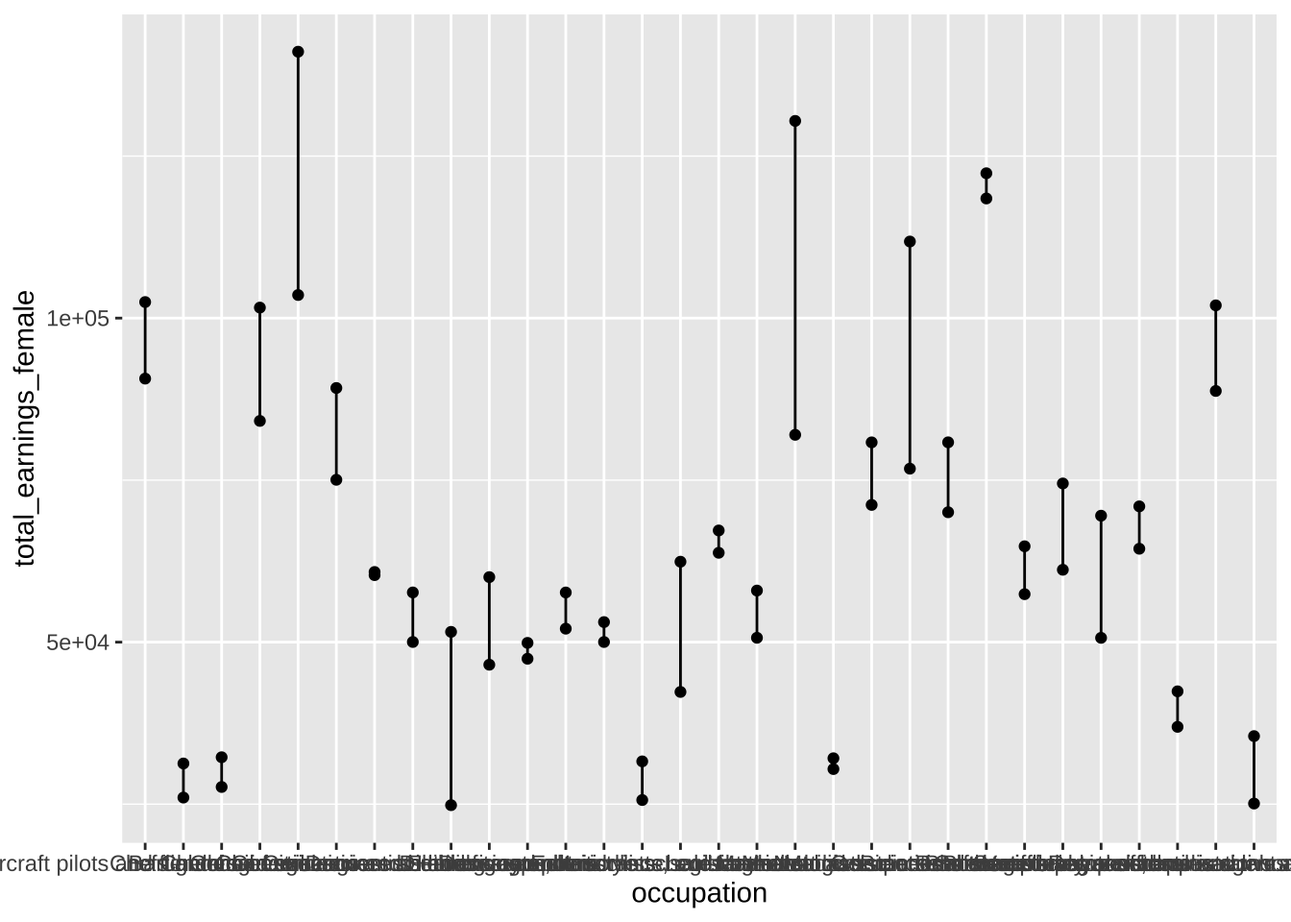
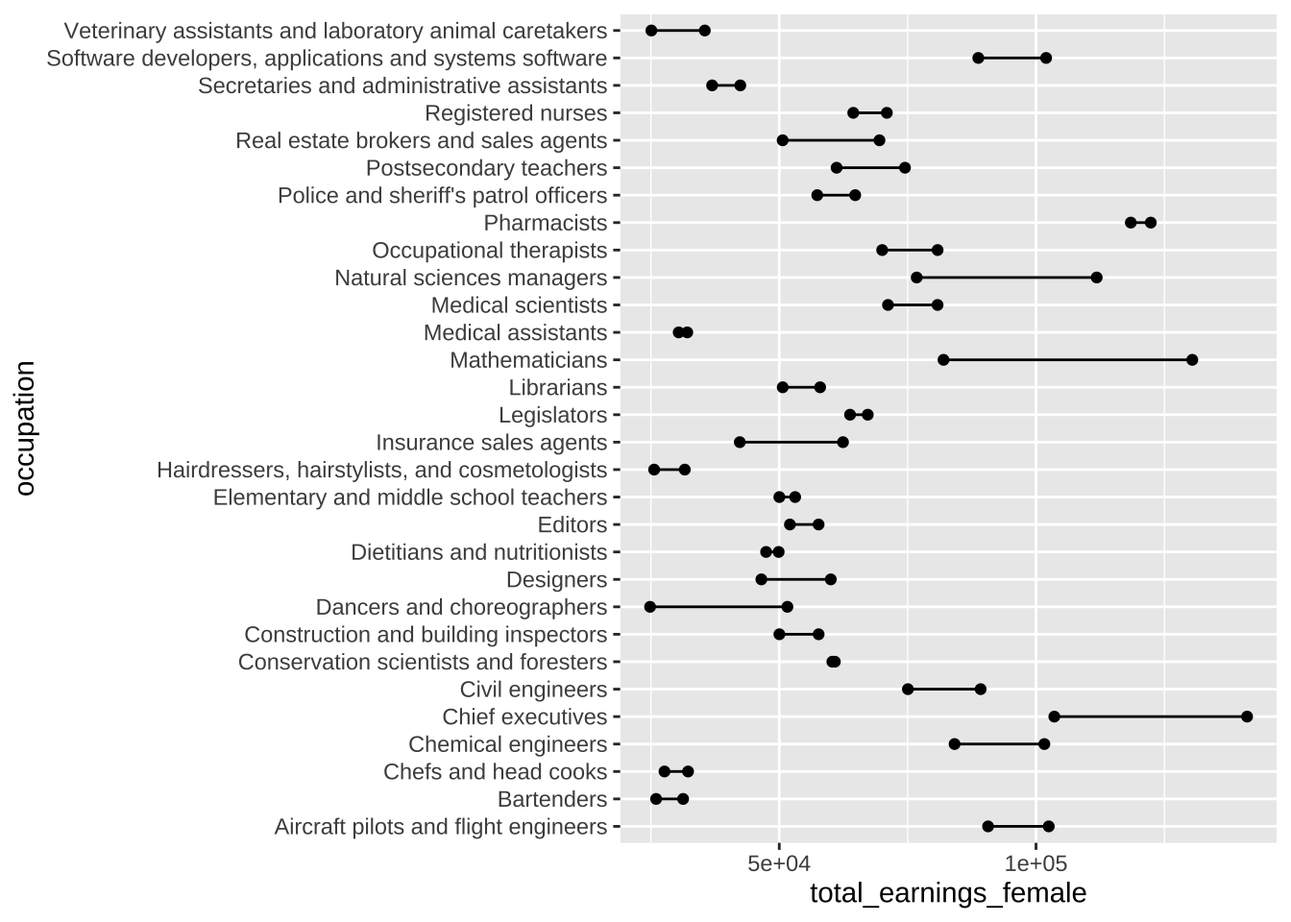
simplified building dumbbell plot

diff --git a/index.html b/index.html
@@ -283,7 +283,7 @@ Warning: Large data file!
 </div>
 <div id="tabset-2-2" class="tab-pane" role="tabpanel" aria-labelledby="tabset-2-2-tab">
 <p>In honor of <a href="https://womenshistorymonth.gov/">Women’s History Month</a> we’ll be using the <a href="https://github.com/rfordatascience/tidytuesday">#tidytuesday</a> <a href="https://github.com/rfordatascience/tidytuesday/tree/master/data/2019/2019-03-05">Women in the Workforce</a> data set (posted on March 5, 2019) to explore <strong>differences in salaries between males and females across occupations</strong>.</p>
-<p>The original <a href="https://raw.githubusercontent.com/rfordatascience/tidytuesday/master/data/2019/2019-03-05/jobs_gender.csv">jobs_gender.csv</a> data file (as posted on the tidytuesday GitHub repo) contains 12 variables and &gt;2,000 observations – each row represents a different occupation and associated wage and employment statistics for the years 2013 - 2016. Cleaning involves removing occupations with missing salary data and calculating some additional values (average salary for males and females by occupation, the percentage of males for each occupation type, difference in salary between males and females by occupation). Two cleaned data sets are available: <a href="https://github.com/UCSB-MEDS/ggplot2-workflow/blob/main/clean-data/all_jobs.rds"><code>all_jobs.rds</code></a> (contains all occupations with wage data from the original data set, across all available years) and <a href="https://github.com/UCSB-MEDS/ggplot2-workflow/blob/main/clean-data/select_jobs.rds"><code>select_jobs.rds</code></a> (contains 10 occupations from each of the following categories: occupations that are 75%+ women, 45-55% women, and 75%+ men, for the year 2016 only), which we’ll use for plotting below. Find the <a href="https://github.com/UCSB-MEDS/ggplot2-workflow/blob/main/data-cleaning/salaries-cleaning.R">cleaning script here</a>.</p>
+<p>The original <a href="https://raw.githubusercontent.com/rfordatascience/tidytuesday/master/data/2019/2019-03-05/jobs_gender.csv">jobs_gender.csv</a> data file (as posted on the tidytuesday GitHub repo) contains 12 variables and &gt;2,000 observations – each row represents a different occupation and associated wage and employment statistics for the years 2013 - 2016. Cleaning involves removing occupations with missing salary data, calculating some additional values (average salary for males and females by occupation, the percentage of males for each occupation type, difference in salary between males and females by occupation), and re-leveling the <code>perc_group_label</code> factor (which groups occupations by those that are 75% female, 45-55% female, and 75% male). Two cleaned data sets are available: <a href="https://github.com/UCSB-MEDS/ggplot2-workflow/blob/main/clean-data/all_jobs.rds"><code>all_jobs.rds</code></a> (contains all occupations with wage data from the original data set, across all available years) and <a href="https://github.com/UCSB-MEDS/ggplot2-workflow/blob/main/clean-data/select_jobs.rds"><code>select_jobs.rds</code></a> (contains 10 occupations from each of the following categories: occupations that are 75%+ women, 45-55% women, and 75%+ men, for the year 2016 only), which we’ll use for plotting below. <strong>NOTE:</strong> These categories, which are represented by the variable, <code>perc_group_label</code> (factor), have already been reordered during the cleaning stage. Find the <a href="https://github.com/UCSB-MEDS/ggplot2-workflow/blob/main/data-cleaning/salaries-cleaning.R">cleaning script here</a>.</p>
 <div class="callout-important callout callout-style-default callout-captioned">
 <div class="callout-header d-flex align-content-center">
 <div class="callout-icon-container">
@@ -509,11 +509,12 @@ Stacked area plots should be used with caution.
 <span id="cb8-14"><a href="#cb8-14" aria-hidden="true" tabindex="-1"></a>earnings_plot <span class="ot">&lt;-</span> <span class="fu">ggplot</span>(select_jobs) <span class="sc">+</span></span>
 <span id="cb8-15"><a href="#cb8-15" aria-hidden="true" tabindex="-1"></a>  </span>
 <span id="cb8-16"><a href="#cb8-16" aria-hidden="true" tabindex="-1"></a>  <span class="co"># create dumbbells ----</span></span>
-<span id="cb8-17"><a href="#cb8-17" aria-hidden="true" tabindex="-1"></a>  <span class="fu">geom_segment</span>(<span class="fu">aes</span>(<span class="at">x =</span> occupation, <span class="at">xend =</span> occupation, <span class="at">y =</span> total_earnings_female, <span class="at">yend =</span> total_earnings_male)) <span class="sc">+</span></span>
-<span id="cb8-18"><a href="#cb8-18" aria-hidden="true" tabindex="-1"></a>  <span class="fu">geom_point</span>(<span class="fu">aes</span>(<span class="at">x =</span> occupation, <span class="at">y =</span> total_earnings_male)) <span class="sc">+</span></span>
-<span id="cb8-19"><a href="#cb8-19" aria-hidden="true" tabindex="-1"></a>  <span class="fu">geom_point</span>(<span class="fu">aes</span>(<span class="at">x =</span> occupation, <span class="at">y =</span> total_earnings_female)) </span>
-<span id="cb8-20"><a href="#cb8-20" aria-hidden="true" tabindex="-1"></a></span>
-<span id="cb8-21"><a href="#cb8-21" aria-hidden="true" tabindex="-1"></a>earnings_plot</span></code><button title="Copy to Clipboard" class="code-copy-button"><i class="bi"></i></button></pre></div>
+<span id="cb8-17"><a href="#cb8-17" aria-hidden="true" tabindex="-1"></a>  <span class="fu">geom_segment</span>(<span class="fu">aes</span>(<span class="at">x =</span> total_earnings_female, <span class="at">xend =</span> total_earnings_male, </span>
+<span id="cb8-18"><a href="#cb8-18" aria-hidden="true" tabindex="-1"></a>                   <span class="at">y =</span> occupation, <span class="at">yend =</span> occupation)) <span class="sc">+</span></span>
+<span id="cb8-19"><a href="#cb8-19" aria-hidden="true" tabindex="-1"></a>  <span class="fu">geom_point</span>(<span class="fu">aes</span>(<span class="at">x =</span> total_earnings_female, <span class="at">y =</span> occupation)) <span class="sc">+</span></span>
+<span id="cb8-20"><a href="#cb8-20" aria-hidden="true" tabindex="-1"></a>  <span class="fu">geom_point</span>(<span class="fu">aes</span>(<span class="at">x =</span> total_earnings_male, <span class="at">y =</span> occupation)) </span>
+<span id="cb8-21"><a href="#cb8-21" aria-hidden="true" tabindex="-1"></a></span>
+<span id="cb8-22"><a href="#cb8-22" aria-hidden="true" tabindex="-1"></a>earnings_plot</span></code><button title="Copy to Clipboard" class="code-copy-button"><i class="bi"></i></button></pre></div>
 <div class="cell-output-display">
 <p><img src="index_files/figure-html/unnamed-chunk-8-1.png" class="img-fluid" width="672"></p>
 </div>
@@ -583,31 +584,32 @@ Stacked area plots should be used with caution.
 <span id="cb10-12"><a href="#cb10-12" aria-hidden="true" tabindex="-1"></a></span>
 <span id="cb10-13"><a href="#cb10-13" aria-hidden="true" tabindex="-1"></a><span class="co">#..............................plot..............................</span></span>
 <span id="cb10-14"><a href="#cb10-14" aria-hidden="true" tabindex="-1"></a>mko_ridges_plot <span class="ot">&lt;-</span> mko_clean <span class="sc">|&gt;</span> </span>
-<span id="cb10-15"><a href="#cb10-15" aria-hidden="true" tabindex="-1"></a>  <span class="fu">group_by</span>(month_name) <span class="sc">|&gt;</span> </span>
-<span id="cb10-16"><a href="#cb10-16" aria-hidden="true" tabindex="-1"></a>  </span>
-<span id="cb10-17"><a href="#cb10-17" aria-hidden="true" tabindex="-1"></a>  </span>
-<span id="cb10-18"><a href="#cb10-18" aria-hidden="true" tabindex="-1"></a>  <span class="co"># initialize ggplot ----</span></span>
-<span id="cb10-19"><a href="#cb10-19" aria-hidden="true" tabindex="-1"></a>  <span class="fu">ggplot</span>(<span class="fu">aes</span>(<span class="at">x =</span> Temp_bot, <span class="at">y =</span> month_name, <span class="at">fill =</span> <span class="fu">after_stat</span>(x))) <span class="sc">+</span></span>
-<span id="cb10-20"><a href="#cb10-20" aria-hidden="true" tabindex="-1"></a>  </span>
-<span id="cb10-21"><a href="#cb10-21" aria-hidden="true" tabindex="-1"></a>  <span class="co"># create ridgeline plot ----</span></span>
-<span id="cb10-22"><a href="#cb10-22" aria-hidden="true" tabindex="-1"></a>  ggridges<span class="sc">::</span><span class="fu">geom_density_ridges_gradient</span>(<span class="at">rel_min_height =</span> <span class="fl">0.01</span>, <span class="at">scale =</span> <span class="dv">3</span>) <span class="sc">+</span> <span class="co"># rel_min_height cuts trailing tails (0.01 suggested); scale sets extent of overlap</span></span>
-<span id="cb10-23"><a href="#cb10-23" aria-hidden="true" tabindex="-1"></a>  </span>
-<span id="cb10-24"><a href="#cb10-24" aria-hidden="true" tabindex="-1"></a>  <span class="co"># add vertical line at avg temp + annotation ----</span></span>
-<span id="cb10-25"><a href="#cb10-25" aria-hidden="true" tabindex="-1"></a>  <span class="fu">geom_vline</span>(<span class="at">xintercept =</span> mko_avg, <span class="at">linetype =</span> <span class="st">"dashed"</span>, <span class="at">color =</span> <span class="st">"black"</span>) <span class="sc">+</span></span>
-<span id="cb10-26"><a href="#cb10-26" aria-hidden="true" tabindex="-1"></a>  <span class="fu">annotate</span>(<span class="at">geom =</span> <span class="st">"segment"</span>, <span class="at">x =</span> <span class="dv">18</span>, <span class="at">y =</span> <span class="st">"April"</span>, <span class="at">xend =</span> mko_avg, <span class="at">yend =</span> <span class="st">"May"</span>,</span>
-<span id="cb10-27"><a href="#cb10-27" aria-hidden="true" tabindex="-1"></a>           <span class="at">arrow =</span> <span class="fu">arrow</span>(<span class="at">length =</span> <span class="fu">unit</span>(<span class="dv">3</span>, <span class="st">"mm"</span>))) <span class="sc">+</span> <span class="co"># this is mostly just a bunch of manual fiddling until the arrow is placed where I want it</span></span>
-<span id="cb10-28"><a href="#cb10-28" aria-hidden="true" tabindex="-1"></a>  <span class="fu">annotate</span>(<span class="at">geom =</span> <span class="st">"label"</span>, <span class="at">x =</span> <span class="dv">18</span>, <span class="at">y =</span> <span class="st">"April"</span>, <span class="at">label =</span> <span class="fu">paste0</span>(<span class="st">" Avg Temp = "</span>, mko_avg, <span class="st">"°C"</span>), <span class="at">hjust =</span> <span class="st">"left"</span>) <span class="sc">+</span> <span class="co"># same here</span></span>
-<span id="cb10-29"><a href="#cb10-29" aria-hidden="true" tabindex="-1"></a></span>
-<span id="cb10-30"><a href="#cb10-30" aria-hidden="true" tabindex="-1"></a>  <span class="co"># set x-axis breaks ----</span></span>
-<span id="cb10-31"><a href="#cb10-31" aria-hidden="true" tabindex="-1"></a>  <span class="fu">scale_x_continuous</span>(<span class="at">breaks =</span> <span class="fu">c</span>(<span class="dv">9</span>, <span class="dv">12</span>, <span class="dv">15</span>, <span class="dv">18</span>, <span class="dv">21</span>)) <span class="sc">+</span></span>
-<span id="cb10-32"><a href="#cb10-32" aria-hidden="true" tabindex="-1"></a>  </span>
-<span id="cb10-33"><a href="#cb10-33" aria-hidden="true" tabindex="-1"></a>  <span class="co"># arrange months in reverse chronological order ----</span></span>
-<span id="cb10-34"><a href="#cb10-34" aria-hidden="true" tabindex="-1"></a>  <span class="fu">scale_y_discrete</span>(<span class="at">limits =</span> <span class="fu">rev</span>(month.name)) <span class="sc">+</span> </span>
-<span id="cb10-35"><a href="#cb10-35" aria-hidden="true" tabindex="-1"></a>  </span>
-<span id="cb10-36"><a href="#cb10-36" aria-hidden="true" tabindex="-1"></a>  <span class="co"># fill color ----</span></span>
-<span id="cb10-37"><a href="#cb10-37" aria-hidden="true" tabindex="-1"></a>  <span class="fu">scale_fill_gradientn</span>(<span class="at">colors =</span> <span class="fu">c</span>(<span class="st">"#2C5374"</span>,<span class="st">"#778798"</span>, <span class="st">"#ADD8E6"</span>, <span class="st">"#EF8080"</span>, <span class="st">"#8B3A3A"</span>), <span class="at">name =</span> <span class="st">"Temp. (°C)"</span>) </span>
-<span id="cb10-38"><a href="#cb10-38" aria-hidden="true" tabindex="-1"></a></span>
-<span id="cb10-39"><a href="#cb10-39" aria-hidden="true" tabindex="-1"></a>mko_ridges_plot</span></code><button title="Copy to Clipboard" class="code-copy-button"><i class="bi"></i></button></pre></div>
+<span id="cb10-15"><a href="#cb10-15" aria-hidden="true" tabindex="-1"></a>  </span>
+<span id="cb10-16"><a href="#cb10-16" aria-hidden="true" tabindex="-1"></a>  <span class="co"># group by month ----</span></span>
+<span id="cb10-17"><a href="#cb10-17" aria-hidden="true" tabindex="-1"></a>  <span class="fu">group_by</span>(month_name) <span class="sc">|&gt;</span> </span>
+<span id="cb10-18"><a href="#cb10-18" aria-hidden="true" tabindex="-1"></a>  </span>
+<span id="cb10-19"><a href="#cb10-19" aria-hidden="true" tabindex="-1"></a>  <span class="co"># initialize ggplot ----</span></span>
+<span id="cb10-20"><a href="#cb10-20" aria-hidden="true" tabindex="-1"></a>  <span class="fu">ggplot</span>(<span class="fu">aes</span>(<span class="at">x =</span> Temp_bot, <span class="at">y =</span> month_name, <span class="at">fill =</span> <span class="fu">after_stat</span>(x))) <span class="sc">+</span></span>
+<span id="cb10-21"><a href="#cb10-21" aria-hidden="true" tabindex="-1"></a>  </span>
+<span id="cb10-22"><a href="#cb10-22" aria-hidden="true" tabindex="-1"></a>  <span class="co"># create ridgeline plot ----</span></span>
+<span id="cb10-23"><a href="#cb10-23" aria-hidden="true" tabindex="-1"></a>  ggridges<span class="sc">::</span><span class="fu">geom_density_ridges_gradient</span>(<span class="at">rel_min_height =</span> <span class="fl">0.01</span>, <span class="at">scale =</span> <span class="dv">3</span>) <span class="sc">+</span> <span class="co"># rel_min_height cuts trailing tails (0.01 suggested); scale sets extent of overlap</span></span>
+<span id="cb10-24"><a href="#cb10-24" aria-hidden="true" tabindex="-1"></a>  </span>
+<span id="cb10-25"><a href="#cb10-25" aria-hidden="true" tabindex="-1"></a>  <span class="co"># add vertical line at avg temp + annotation ----</span></span>
+<span id="cb10-26"><a href="#cb10-26" aria-hidden="true" tabindex="-1"></a>  <span class="fu">geom_vline</span>(<span class="at">xintercept =</span> mko_avg, <span class="at">linetype =</span> <span class="st">"dashed"</span>, <span class="at">color =</span> <span class="st">"black"</span>) <span class="sc">+</span></span>
+<span id="cb10-27"><a href="#cb10-27" aria-hidden="true" tabindex="-1"></a>  <span class="fu">annotate</span>(<span class="at">geom =</span> <span class="st">"segment"</span>, <span class="at">x =</span> <span class="dv">18</span>, <span class="at">y =</span> <span class="st">"April"</span>, <span class="at">xend =</span> mko_avg, <span class="at">yend =</span> <span class="st">"May"</span>,</span>
+<span id="cb10-28"><a href="#cb10-28" aria-hidden="true" tabindex="-1"></a>           <span class="at">arrow =</span> <span class="fu">arrow</span>(<span class="at">length =</span> <span class="fu">unit</span>(<span class="dv">3</span>, <span class="st">"mm"</span>))) <span class="sc">+</span> <span class="co"># this is mostly just a bunch of manual fiddling until the arrow is placed where I want it</span></span>
+<span id="cb10-29"><a href="#cb10-29" aria-hidden="true" tabindex="-1"></a>  <span class="fu">annotate</span>(<span class="at">geom =</span> <span class="st">"label"</span>, <span class="at">x =</span> <span class="dv">18</span>, <span class="at">y =</span> <span class="st">"April"</span>, <span class="at">label =</span> <span class="fu">paste0</span>(<span class="st">" Avg Temp = "</span>, mko_avg, <span class="st">"°C"</span>), <span class="at">hjust =</span> <span class="st">"left"</span>) <span class="sc">+</span> <span class="co"># same here</span></span>
+<span id="cb10-30"><a href="#cb10-30" aria-hidden="true" tabindex="-1"></a></span>
+<span id="cb10-31"><a href="#cb10-31" aria-hidden="true" tabindex="-1"></a>  <span class="co"># set x-axis breaks ----</span></span>
+<span id="cb10-32"><a href="#cb10-32" aria-hidden="true" tabindex="-1"></a>  <span class="fu">scale_x_continuous</span>(<span class="at">breaks =</span> <span class="fu">c</span>(<span class="dv">9</span>, <span class="dv">12</span>, <span class="dv">15</span>, <span class="dv">18</span>, <span class="dv">21</span>)) <span class="sc">+</span></span>
+<span id="cb10-33"><a href="#cb10-33" aria-hidden="true" tabindex="-1"></a>  </span>
+<span id="cb10-34"><a href="#cb10-34" aria-hidden="true" tabindex="-1"></a>  <span class="co"># arrange months in reverse chronological order ----</span></span>
+<span id="cb10-35"><a href="#cb10-35" aria-hidden="true" tabindex="-1"></a>  <span class="fu">scale_y_discrete</span>(<span class="at">limits =</span> <span class="fu">rev</span>(month.name)) <span class="sc">+</span> </span>
+<span id="cb10-36"><a href="#cb10-36" aria-hidden="true" tabindex="-1"></a>  </span>
+<span id="cb10-37"><a href="#cb10-37" aria-hidden="true" tabindex="-1"></a>  <span class="co"># fill color ----</span></span>
+<span id="cb10-38"><a href="#cb10-38" aria-hidden="true" tabindex="-1"></a>  <span class="fu">scale_fill_gradientn</span>(<span class="at">colors =</span> <span class="fu">c</span>(<span class="st">"#2C5374"</span>,<span class="st">"#778798"</span>, <span class="st">"#ADD8E6"</span>, <span class="st">"#EF8080"</span>, <span class="st">"#8B3A3A"</span>), <span class="at">name =</span> <span class="st">"Temp. (°C)"</span>) </span>
+<span id="cb10-39"><a href="#cb10-39" aria-hidden="true" tabindex="-1"></a></span>
+<span id="cb10-40"><a href="#cb10-40" aria-hidden="true" tabindex="-1"></a>mko_ridges_plot</span></code><button title="Copy to Clipboard" class="code-copy-button"><i class="bi"></i></button></pre></div>
 <div class="cell-output-display">
 <p><img src="index_files/figure-html/unnamed-chunk-10-1.png" class="img-fluid" width="672"></p>
 </div>
@@ -617,7 +619,6 @@ Stacked area plots should be used with caution.
 <p>We’ve successfully plotted our salary data for males and females by occupation, but our plot definitely needs some work. We’ll want to update the following so that our visualization is easier to interpret:</p>
 <ul>
 <li>color-code male vs.&nbsp;female points</li>
-<li>flip the axes so that we can more easily read the long occupation names</li>
 <li>reorder occupations (I’ll arrange them in descending order of average salary)</li>
 <li>facet wrap by our three groupings (<code>perc_group</code>: occupations that are 75%+ female, 45-55% female, and 75%+ male)</li>
 </ul>
@@ -638,16 +639,16 @@ Stacked area plots should be used with caution.
 <span id="cb11-14"><a href="#cb11-14" aria-hidden="true" tabindex="-1"></a>earnings_plot <span class="ot">&lt;-</span> <span class="fu">ggplot</span>(select_jobs) <span class="sc">+</span></span>
 <span id="cb11-15"><a href="#cb11-15" aria-hidden="true" tabindex="-1"></a>  </span>
 <span id="cb11-16"><a href="#cb11-16" aria-hidden="true" tabindex="-1"></a>  <span class="co"># create dumbbells ----</span></span>
-<span id="cb11-17"><a href="#cb11-17" aria-hidden="true" tabindex="-1"></a>  <span class="fu">geom_segment</span>(<span class="fu">aes</span>(<span class="at">x =</span> <span class="fu">reorder</span>(occupation, avg_salary), <span class="at">xend =</span> occupation, <span class="at">y =</span> total_earnings_female, <span class="at">yend =</span> total_earnings_male)) <span class="sc">+</span> <span class="co"># reorder occupation by avg_salary here</span></span>
-<span id="cb11-18"><a href="#cb11-18" aria-hidden="true" tabindex="-1"></a>  <span class="fu">geom_point</span>(<span class="fu">aes</span>(<span class="at">x =</span> occupation, <span class="at">y =</span> total_earnings_male), <span class="at">color =</span> <span class="st">"#CD93D8"</span>, <span class="at">size =</span> <span class="fl">2.5</span>) <span class="sc">+</span></span>
-<span id="cb11-19"><a href="#cb11-19" aria-hidden="true" tabindex="-1"></a>  <span class="fu">geom_point</span>(<span class="fu">aes</span>(<span class="at">x =</span> occupation, <span class="at">y =</span> total_earnings_female), <span class="at">color =</span> <span class="st">"#6A1E99"</span>, <span class="at">size =</span> <span class="fl">2.5</span>) <span class="sc">+</span></span>
-<span id="cb11-20"><a href="#cb11-20" aria-hidden="true" tabindex="-1"></a>  </span>
-<span id="cb11-21"><a href="#cb11-21" aria-hidden="true" tabindex="-1"></a>  <span class="co"># flip axes &amp; facet wrap by group ----</span></span>
-<span id="cb11-22"><a href="#cb11-22" aria-hidden="true" tabindex="-1"></a>  <span class="fu">coord_flip</span>() <span class="sc">+</span></span>
+<span id="cb11-17"><a href="#cb11-17" aria-hidden="true" tabindex="-1"></a>  <span class="fu">geom_segment</span>(<span class="fu">aes</span>(<span class="at">x =</span> total_earnings_female, <span class="at">xend =</span> total_earnings_male, </span>
+<span id="cb11-18"><a href="#cb11-18" aria-hidden="true" tabindex="-1"></a>                   <span class="at">y =</span> <span class="fu">reorder</span>(occupation, avg_salary), <span class="at">yend =</span> occupation)) <span class="sc">+</span> <span class="co"># reorder occupation by avg_salary here</span></span>
+<span id="cb11-19"><a href="#cb11-19" aria-hidden="true" tabindex="-1"></a>  <span class="fu">geom_point</span>(<span class="fu">aes</span>(<span class="at">x =</span> total_earnings_male, <span class="at">y =</span> occupation), <span class="at">color =</span> <span class="st">"#CD93D8"</span>, <span class="at">size =</span> <span class="fl">2.5</span>) <span class="sc">+</span></span>
+<span id="cb11-20"><a href="#cb11-20" aria-hidden="true" tabindex="-1"></a>  <span class="fu">geom_point</span>(<span class="fu">aes</span>(<span class="at">x =</span> total_earnings_female, <span class="at">y =</span> occupation), <span class="at">color =</span> <span class="st">"#6A1E99"</span>, <span class="at">size =</span> <span class="fl">2.5</span>) <span class="sc">+</span></span>
+<span id="cb11-21"><a href="#cb11-21" aria-hidden="true" tabindex="-1"></a>  </span>
+<span id="cb11-22"><a href="#cb11-22" aria-hidden="true" tabindex="-1"></a>  <span class="co"># facet wrap by group ----</span></span>
 <span id="cb11-23"><a href="#cb11-23" aria-hidden="true" tabindex="-1"></a>  <span class="fu">facet_wrap</span>(<span class="sc">~</span>perc_group_label, <span class="at">nrow =</span> <span class="dv">3</span>, <span class="at">scales =</span> <span class="st">"free_y"</span>) <span class="sc">+</span> <span class="co"># "free_y" plots only the axis labels that exist in each group</span></span>
 <span id="cb11-24"><a href="#cb11-24" aria-hidden="true" tabindex="-1"></a>  </span>
 <span id="cb11-25"><a href="#cb11-25" aria-hidden="true" tabindex="-1"></a>  <span class="co"># axis breaks &amp; $ labels ----</span></span>
-<span id="cb11-26"><a href="#cb11-26" aria-hidden="true" tabindex="-1"></a>  <span class="fu">scale_y_continuous</span>(<span class="at">labels =</span> scales<span class="sc">::</span><span class="fu">label_dollar</span>(<span class="at">scale =</span> <span class="fl">0.001</span>, <span class="at">suffix =</span> <span class="st">"k"</span>),</span>
+<span id="cb11-26"><a href="#cb11-26" aria-hidden="true" tabindex="-1"></a>  <span class="fu">scale_x_continuous</span>(<span class="at">labels =</span> scales<span class="sc">::</span><span class="fu">label_dollar</span>(<span class="at">scale =</span> <span class="fl">0.001</span>, <span class="at">suffix =</span> <span class="st">"k"</span>),</span>
 <span id="cb11-27"><a href="#cb11-27" aria-hidden="true" tabindex="-1"></a>                     <span class="at">breaks =</span> <span class="fu">c</span>(<span class="dv">25000</span>, <span class="dv">50000</span>, <span class="dv">75000</span>, <span class="dv">100000</span>, <span class="dv">125000</span>)) </span>
 <span id="cb11-28"><a href="#cb11-28" aria-hidden="true" tabindex="-1"></a></span>
 <span id="cb11-29"><a href="#cb11-29" aria-hidden="true" tabindex="-1"></a>earnings_plot</span></code><button title="Copy to Clipboard" class="code-copy-button"><i class="bi"></i></button></pre></div>
@@ -792,16 +793,16 @@ Stacked area plots should be used with caution.
 <span id="cb14-14"><a href="#cb14-14" aria-hidden="true" tabindex="-1"></a>earnings_plot <span class="ot">&lt;-</span> <span class="fu">ggplot</span>(select_jobs) <span class="sc">+</span></span>
 <span id="cb14-15"><a href="#cb14-15" aria-hidden="true" tabindex="-1"></a>  </span>
 <span id="cb14-16"><a href="#cb14-16" aria-hidden="true" tabindex="-1"></a>  <span class="co"># create dumbbells ----</span></span>
-<span id="cb14-17"><a href="#cb14-17" aria-hidden="true" tabindex="-1"></a>  <span class="fu">geom_segment</span>(<span class="fu">aes</span>(<span class="at">x =</span> <span class="fu">reorder</span>(occupation, avg_salary), <span class="at">xend =</span> occupation, <span class="at">y =</span> total_earnings_female, <span class="at">yend =</span> total_earnings_male)) <span class="sc">+</span> <span class="co"># reorder occupation by avg_salary here</span></span>
-<span id="cb14-18"><a href="#cb14-18" aria-hidden="true" tabindex="-1"></a>  <span class="fu">geom_point</span>(<span class="fu">aes</span>(<span class="at">x =</span> occupation, <span class="at">y =</span> total_earnings_male), <span class="at">color =</span> <span class="st">"#CD93D8"</span>, <span class="at">size =</span> <span class="fl">2.5</span>) <span class="sc">+</span></span>
-<span id="cb14-19"><a href="#cb14-19" aria-hidden="true" tabindex="-1"></a>  <span class="fu">geom_point</span>(<span class="fu">aes</span>(<span class="at">x =</span> occupation, <span class="at">y =</span> total_earnings_female), <span class="at">color =</span> <span class="st">"#6A1E99"</span>, <span class="at">size =</span> <span class="fl">2.5</span>) <span class="sc">+</span></span>
-<span id="cb14-20"><a href="#cb14-20" aria-hidden="true" tabindex="-1"></a>  </span>
-<span id="cb14-21"><a href="#cb14-21" aria-hidden="true" tabindex="-1"></a>  <span class="co"># flip axes &amp; facet wrap by group ----</span></span>
-<span id="cb14-22"><a href="#cb14-22" aria-hidden="true" tabindex="-1"></a>  <span class="fu">coord_flip</span>() <span class="sc">+</span></span>
+<span id="cb14-17"><a href="#cb14-17" aria-hidden="true" tabindex="-1"></a>  <span class="fu">geom_segment</span>(<span class="fu">aes</span>(<span class="at">x =</span> total_earnings_female, <span class="at">xend =</span> total_earnings_male, </span>
+<span id="cb14-18"><a href="#cb14-18" aria-hidden="true" tabindex="-1"></a>                   <span class="at">y =</span> <span class="fu">reorder</span>(occupation, avg_salary), <span class="at">yend =</span> occupation)) <span class="sc">+</span> <span class="co"># reorder occupation by avg_salary here</span></span>
+<span id="cb14-19"><a href="#cb14-19" aria-hidden="true" tabindex="-1"></a>  <span class="fu">geom_point</span>(<span class="fu">aes</span>(<span class="at">x =</span> total_earnings_male, <span class="at">y =</span> occupation), <span class="at">color =</span> <span class="st">"#CD93D8"</span>, <span class="at">size =</span> <span class="fl">2.5</span>) <span class="sc">+</span></span>
+<span id="cb14-20"><a href="#cb14-20" aria-hidden="true" tabindex="-1"></a>  <span class="fu">geom_point</span>(<span class="fu">aes</span>(<span class="at">x =</span> total_earnings_female, <span class="at">y =</span> occupation), <span class="at">color =</span> <span class="st">"#6A1E99"</span>, <span class="at">size =</span> <span class="fl">2.5</span>) <span class="sc">+</span></span>
+<span id="cb14-21"><a href="#cb14-21" aria-hidden="true" tabindex="-1"></a>  </span>
+<span id="cb14-22"><a href="#cb14-22" aria-hidden="true" tabindex="-1"></a>  <span class="co"># facet wrap by group ----</span></span>
 <span id="cb14-23"><a href="#cb14-23" aria-hidden="true" tabindex="-1"></a>  <span class="fu">facet_wrap</span>(<span class="sc">~</span>perc_group_label, <span class="at">nrow =</span> <span class="dv">3</span>, <span class="at">scales =</span> <span class="st">"free_y"</span>) <span class="sc">+</span> <span class="co"># "free_y" plots only the axis labels that exist in each group</span></span>
 <span id="cb14-24"><a href="#cb14-24" aria-hidden="true" tabindex="-1"></a>  </span>
 <span id="cb14-25"><a href="#cb14-25" aria-hidden="true" tabindex="-1"></a>  <span class="co"># axis breaks &amp; $ labels ----</span></span>
-<span id="cb14-26"><a href="#cb14-26" aria-hidden="true" tabindex="-1"></a>  <span class="fu">scale_y_continuous</span>(<span class="at">labels =</span> scales<span class="sc">::</span><span class="fu">label_dollar</span>(<span class="at">scale =</span> <span class="fl">0.001</span>, <span class="at">suffix =</span> <span class="st">"k"</span>),</span>
+<span id="cb14-26"><a href="#cb14-26" aria-hidden="true" tabindex="-1"></a>  <span class="fu">scale_x_continuous</span>(<span class="at">labels =</span> scales<span class="sc">::</span><span class="fu">label_dollar</span>(<span class="at">scale =</span> <span class="fl">0.001</span>, <span class="at">suffix =</span> <span class="st">"k"</span>),</span>
 <span id="cb14-27"><a href="#cb14-27" aria-hidden="true" tabindex="-1"></a>                     <span class="at">breaks =</span> <span class="fu">c</span>(<span class="dv">25000</span>, <span class="dv">50000</span>, <span class="dv">75000</span>, <span class="dv">100000</span>, <span class="dv">125000</span>)) <span class="sc">+</span></span>
 <span id="cb14-28"><a href="#cb14-28" aria-hidden="true" tabindex="-1"></a>  </span>
 <span id="cb14-29"><a href="#cb14-29" aria-hidden="true" tabindex="-1"></a>  <span class="co"># title &amp; subtitle (add styling) ----</span></span>
